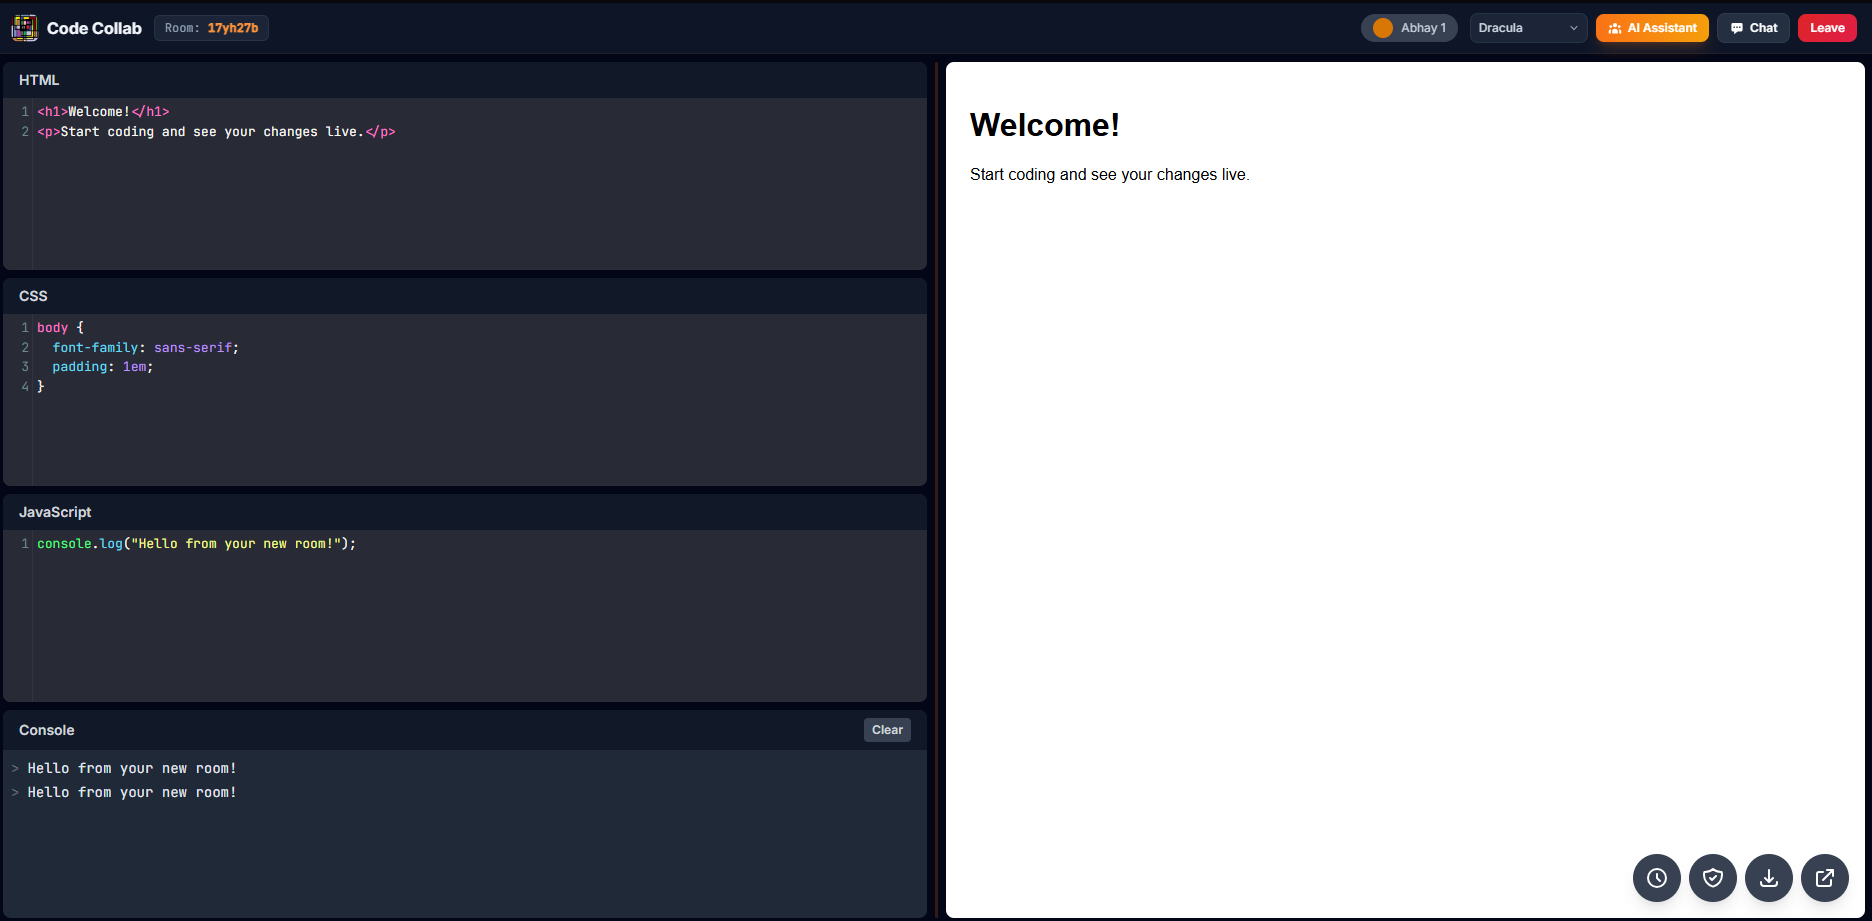
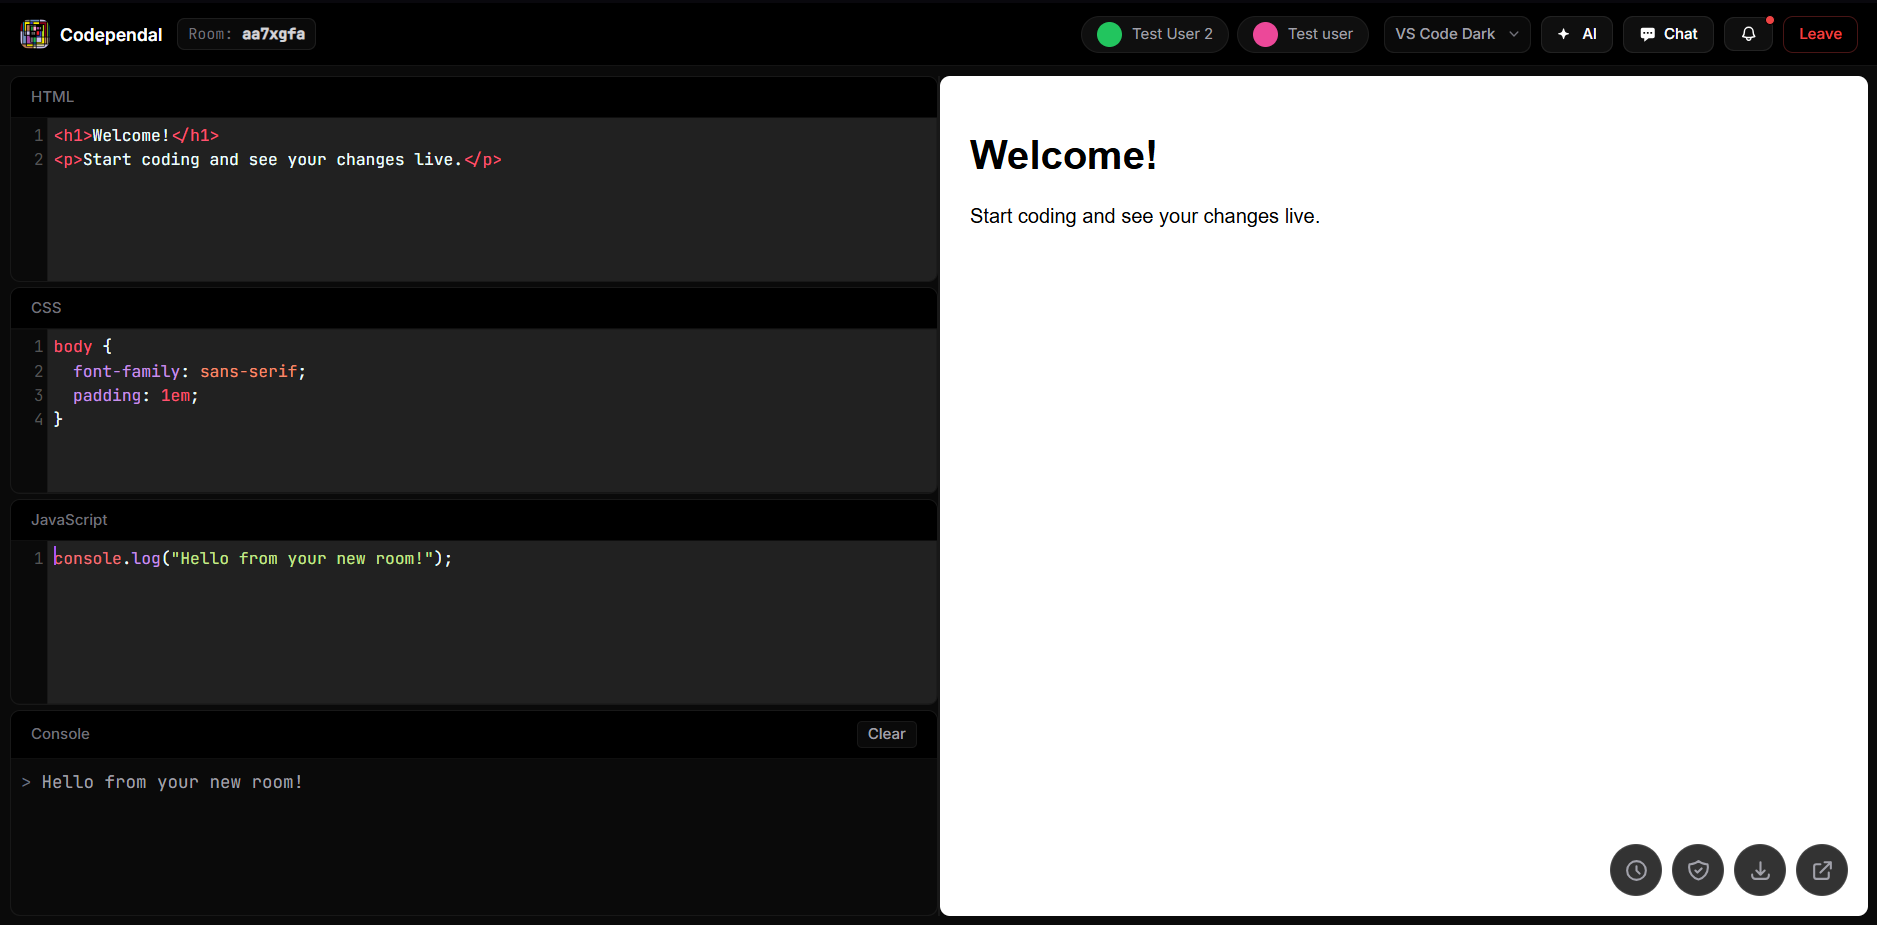
docs: add feature preview screenshots to README and update placeholder references

Changed region(s): [[0.0, 0.0, 1.0, 1.0]]

diff --git a/README.md b/README.md
@@ -14,17 +14,17 @@ Designed for speed and simplicity, Code Collab requires no sign-ups or installat
 
 - **Real-time Collaboration:** Code together in absolute real-time without latency. Cursors and edits sync instantly across all clients in a room.
 - **Cursor Sharing & Stability:** See where your collaborators are typing in real-time with color-coded, labeled cursor indicators, backed by a zero-layout-shift proxy mechanism.
-![Live Cursors Placeholder]()
+![Live Cursors Placeholder](livecursorpreview.png)
 - **Built-in AI Assistant:** A floating AI panel powered by Hugging Face (`Qwen2.5-Coder`). Describe what you want to build, and the AI will generate the HTML, CSS, and JS, injecting it directly into your editors.
 - **AI Code Review:** Ask the AI to review your current code for bugs, best practices, accessibility, and performance optimizations.
 - **Live Preview & Console:** Instantly view the results of your code in a sandboxed iframe. A built-in console helps you catch and debug JavaScript errors.
 - **Tab-Freeze Security:** Built-in infinite loop protection monitors user JavaScript. If a script runs too long or freezes the iframe, it is automatically terminated. A "Safe Mode" toggle allows you to disable JavaScript entirely.
 - **Time-Travel History & Diff Viewer:** Changes are automatically saved every 10 seconds. You can explicitly manually save milestones as well. Browse up to 50 previous versions of your room's code, and use the new "View" tool to launch a Git-style visualization modal showing character/line-level CSS, HTML, and JS differences.
-![Timeline Diff Viewer Placeholder]()
+![Timeline Diff Viewer Placeholder](timepreview.png)
 - **Activity Notification Center:** A real-time notification feed tracks user presence, snapshot generation, and major code edits. A red notification badge alerts you via the platform's header.
-![Activity Notification Feed Placeholder]()
+![Activity Notification Feed Placeholder](notification.png)
 - **Room Chat & Notifications:** Communicate with your team via the built-in room chat panel. If the chat panel is obscured and a peer sends a message, a highly visible status indicator flashes to notify you.
-![Chat Notification Badge Placeholder]()
+![Chat Notification Badge Placeholder](chatpreview.png)
 - **Zero Friction:** No accounts, no passwords, no setup. Click "Create Room," share the URL, and start coding within seconds.
 - **Export Project:** One-click download of your entire workspace as a zipped `.zip` file, ready to be dropped into VS Code or deployed.
 - **Premium UI:** A beautiful, responsive, and modern interface built with Tailwind CSS, featuring custom CodeMirror themes and warm orange/amber aesthetics.
